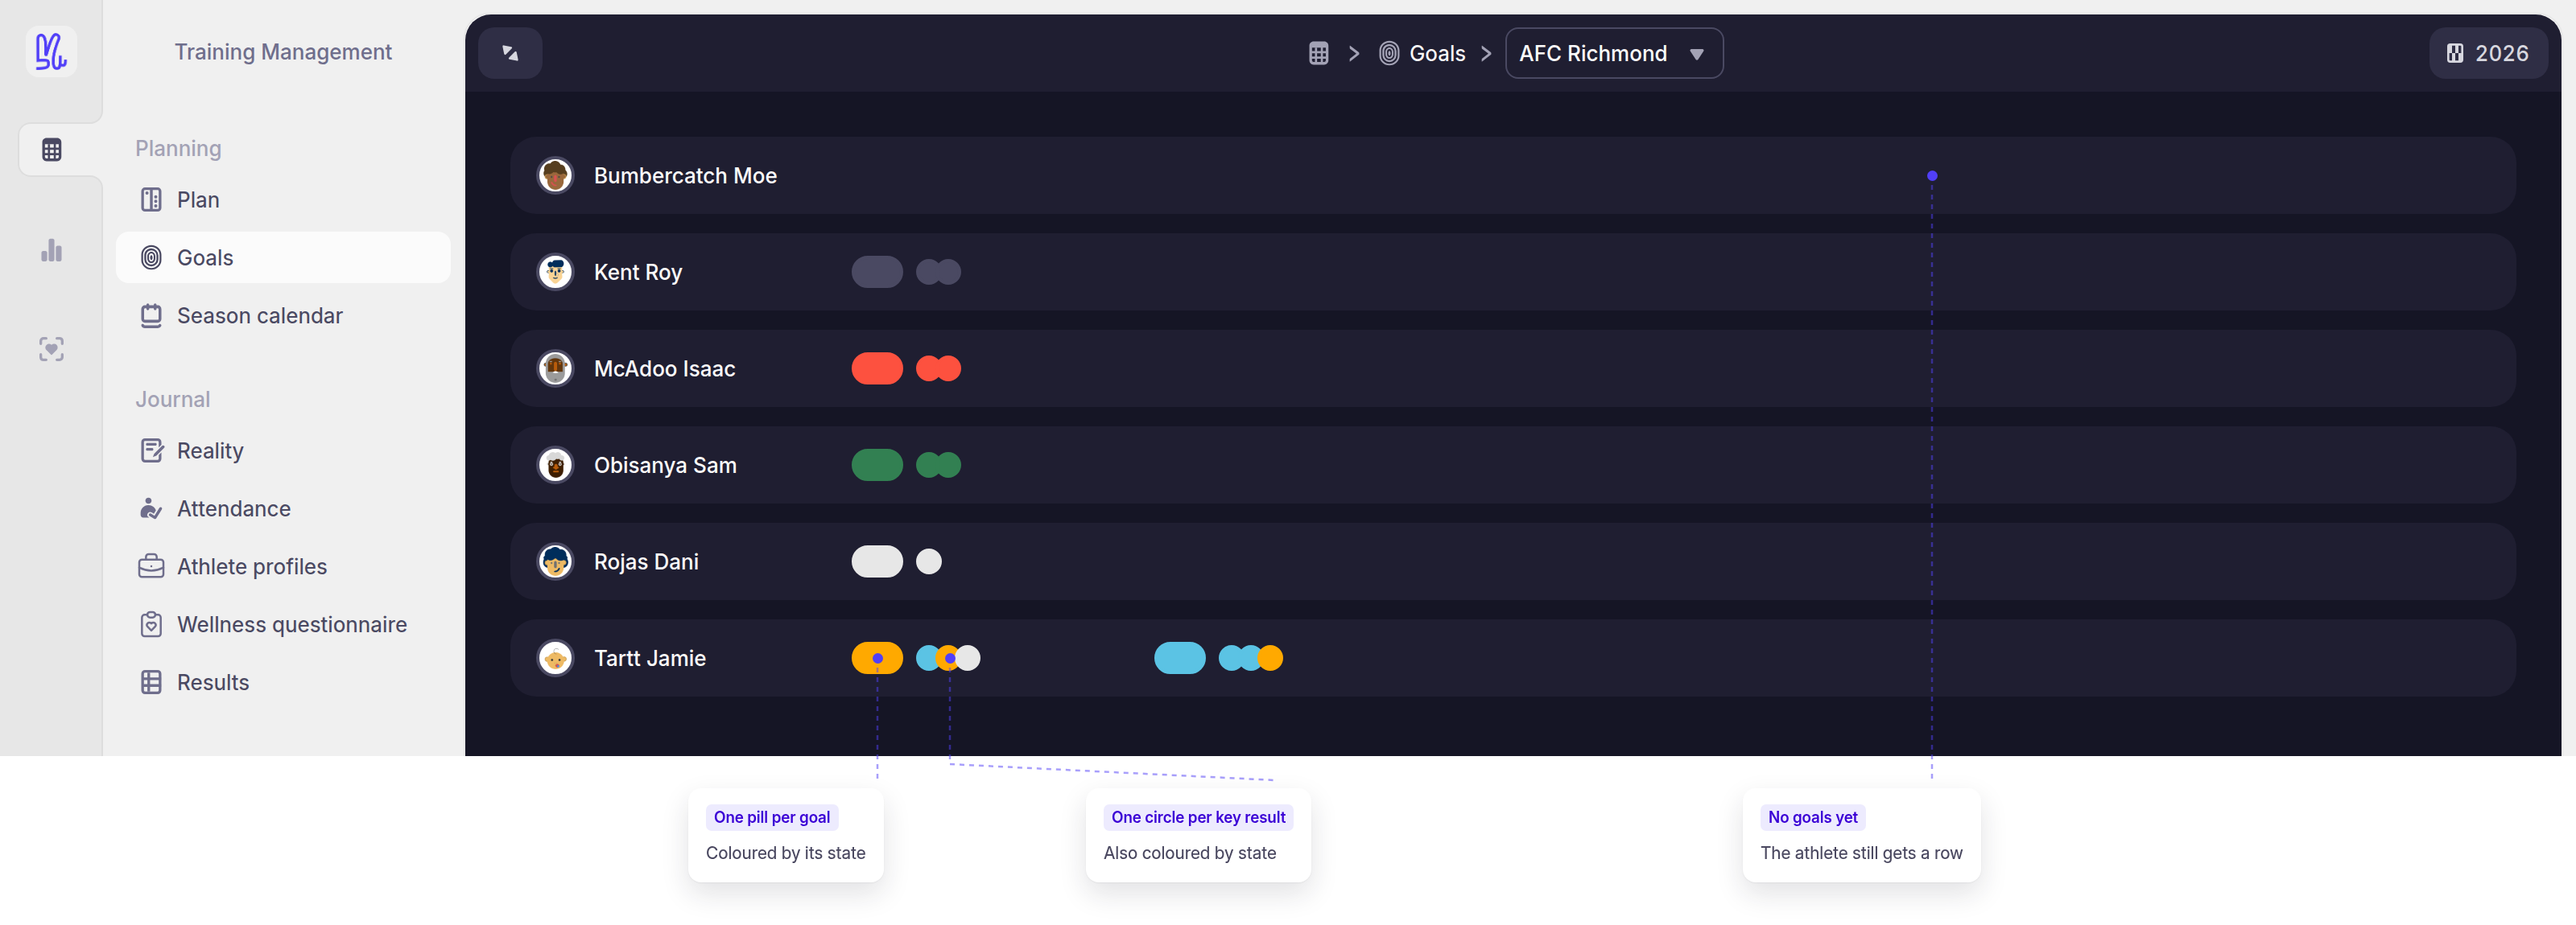
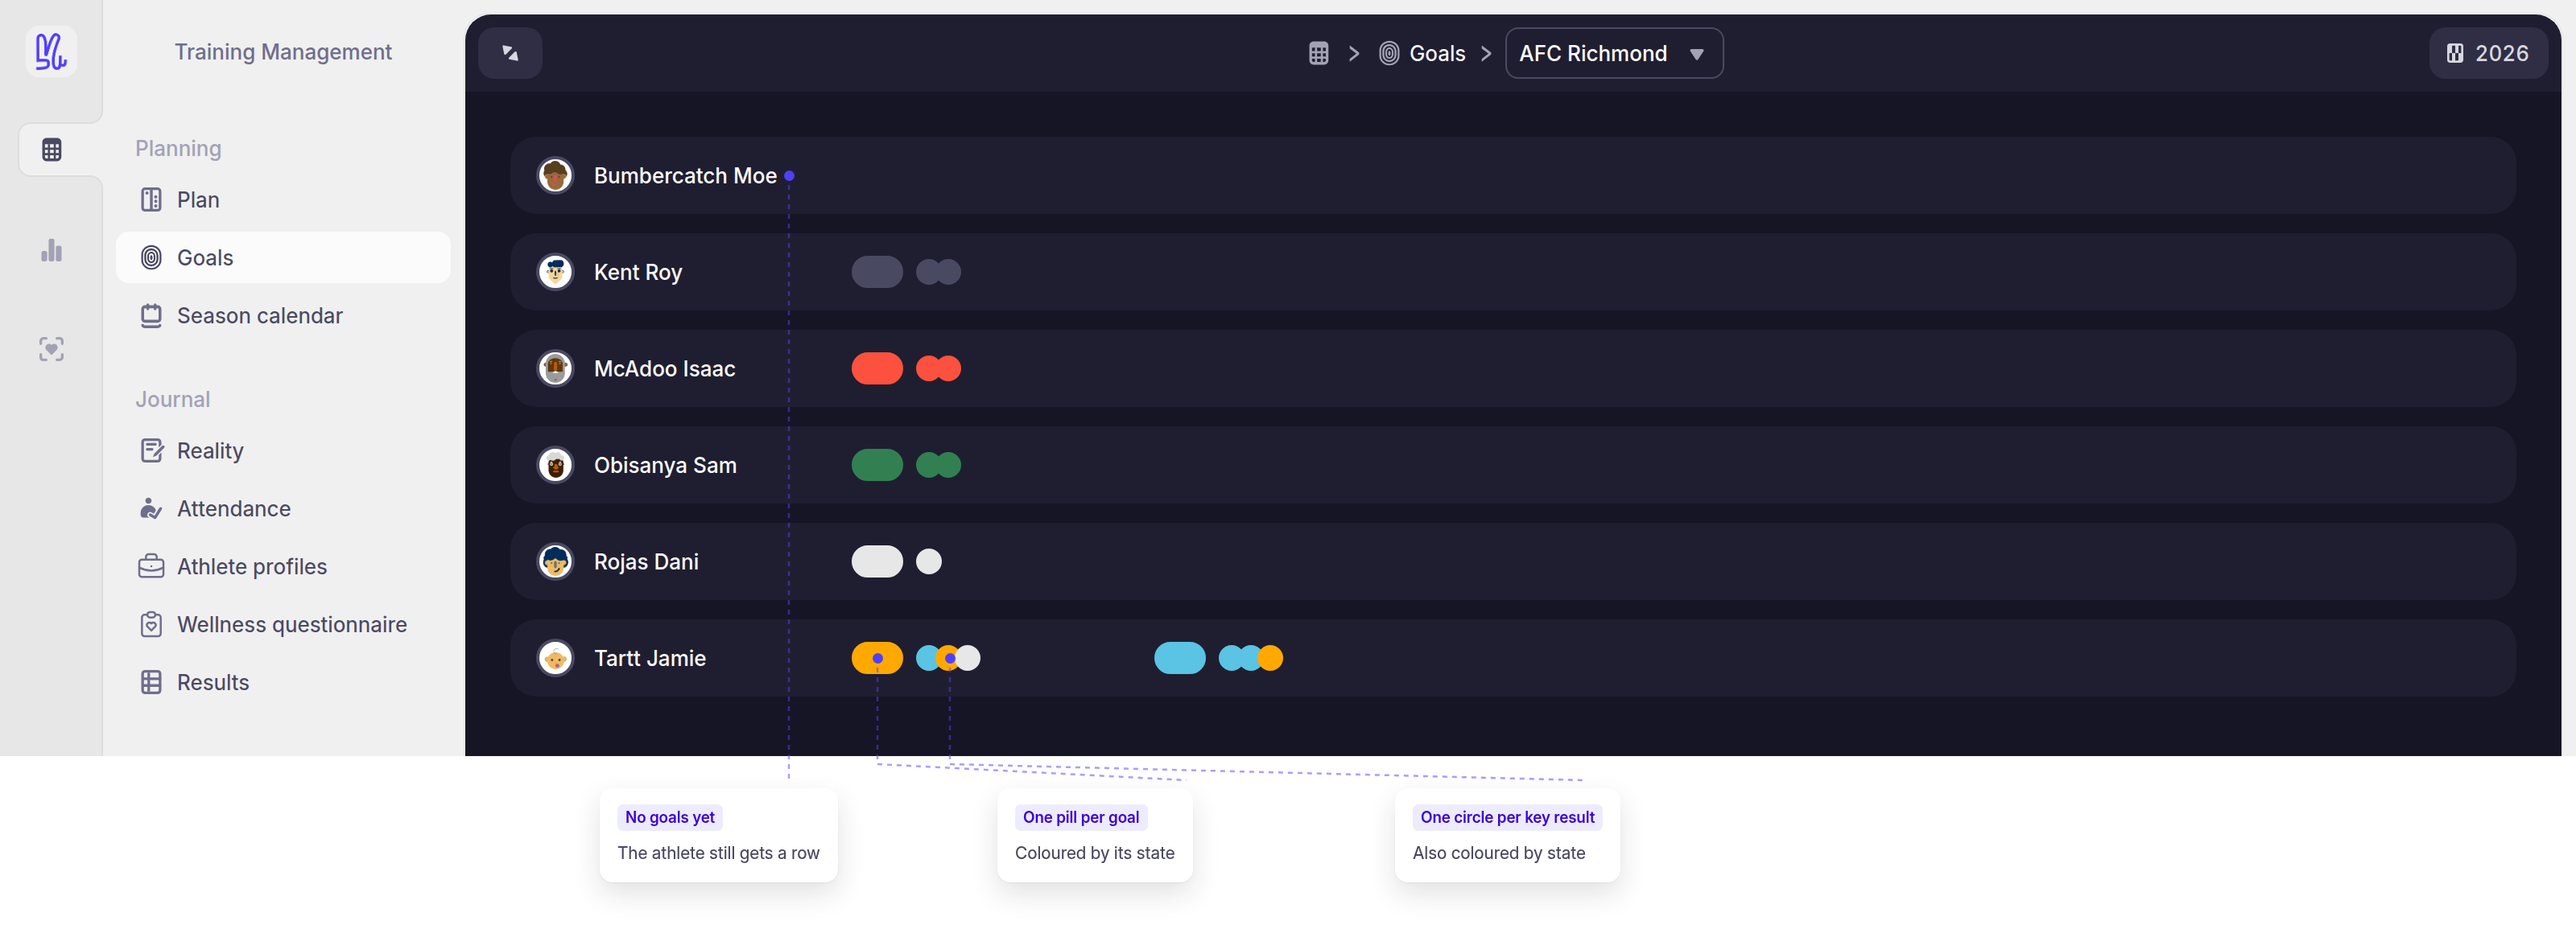
Goals figures: anchor every leader on its element; Action bar → Tool bar
- Several callout anchors sat past the element they named, in whitespace,
  so the dashed leader looked stubby and unconnected. Anchors are now
  measured from the captures themselves — the rightmost content pixel in
  the element's own row — rather than estimated by eye. The worst were
  Export options (350px past the menu), Final evaluation and Activity
  (400-480px past their rows) and the two key-result callouts, which sat
  outside the goal panel entirely.
- Two anchors had taken their x from one row and their y from another;
  both now point at the element they describe.
- The overview's "No goals yet" moved onto Bumbercatch's row, just after
  his name where the pills would start, instead of floating mid-row.
- "Action bar" is now "Tool bar", in the figure and everywhere it was
  named in the docs, module notes, and master reference.

Claude-Session: https://claude.ai/code/session_01BcTgTxjwzSdWmEF7MFmzuM

diff --git a/docs-guide/master-reference.md b/docs-guide/master-reference.md
@@ -120,12 +120,12 @@ Full-season event scaffold. **Event types:** training camp, competition/race, tr
 
 EN UI label: **Goals** (distinct from "Goals (Motivy)", the 4-week plan view in 5.1). In the main menu (under **Planning** in the new left-side UI; **Other** in the older top-menu UI). **Web only** (incl. PWA). Athletes manage their own goals and **see only their own** (no group selector, athlete list, or group overview); coaches choose a group → athlete to manage their athletes' goals, **and can create goals for themselves**. Goals are bucketed by season (**Current season** / **Last season** / **Other**). Strong fit for pre-season and post-season conversations and retrospectives (valued by mental coaches).
 
-- **Goal anatomy:** title, description, **state**, **season**, **priority** (Low / Medium / High, shown as `!`/`!!`/`!!!`), **supervisors** (the coaches following the goal), **category** (two-level: top category → subcategory), **key results**, **final evaluations**, and an **Activity** log. Create / verify / delete sit in a floating **action bar at the bottom** of the goal panel (**New goal**, shortcut **N** · **Verification** · trash), not at the top right.
+- **Goal anatomy:** title, description, **state**, **season**, **priority** (Low / Medium / High, shown as `!`/`!!`/`!!!`), **supervisors** (the coaches following the goal), **category** (two-level: top category → subcategory), **key results**, **final evaluations**, and an **Activity** log. Create / verify / delete sit in a floating **tool bar at the bottom** of the goal panel (**New goal**, shortcut **N** · **Verification** · trash), not at the top right.
 - **States (6):** Not started, On track, Off track, Completed, Canceled, Failed.
 - **Key results (KRs):** name, **start / current / target value** (free text — numeric like `140kg` or a phrase like "trying"; updated **manually**), **target date**, and own state (the **same six states** as the goal). **No sub-steps/milestones** — key results are the only breakdown. The goal-card progress fraction (e.g. `1/1`) counts **achieved ÷ total key results**.
 - **Categories** [CONFIG]: seen in one instance as Performance, Fitness, Personal, Technical, Health, Conditions (each with subcategories, e.g. Fitness → Strength / Endurance). Treat the specific list as per-instance.
 - **Final evaluations** — closing written assessments; athlete and/or coach can each add one. **Gated on a final state**: a final evaluation cannot be added until the goal is set to **Completed**, **Canceled** or **Failed** (confirmed by product owner 09/2026). Distinct from **Activity** comments (plain, timestamped text, addable at any time) and the automatic change-log.
-- **Verification** — a panel (checklist icon in the **action bar at the bottom** of the goal, with a dot badge: red = a required item missing, amber = only recommended ones) that marks each field **required (red)** or **recommended (amber)**, with **green checks** for completed ones (title, description, supervisor, category, key results), and links to **Open guidelines** — the team's own guidelines document (an external, per-team configured URL, e.g. a Notion page). Completeness thresholds (e.g. a minimum number of key results) are instance-specific [CONFIG]. **Not a Yollanda surface** — the panel carries no Yollanda branding (verified 09/2026; earlier notes calling it "Document check (Yollanda persona)" were wrong).
+- **Verification** — a panel (checklist icon in the **tool bar at the bottom** of the goal, with a dot badge: red = a required item missing, amber = only recommended ones) that marks each field **required (red)** or **recommended (amber)**, with **green checks** for completed ones (title, description, supervisor, category, key results), and links to **Open guidelines** — the team's own guidelines document (an external, per-team configured URL, e.g. a Notion page). Completeness thresholds (e.g. a minimum number of key results) are instance-specific [CONFIG]. **Not a Yollanda surface** — the panel carries no Yollanda branding (verified 09/2026; earlier notes calling it "Document check (Yollanda persona)" were wrong).
 - **Entire Group** view — a grid of every athlete's goals for at-a-glance review (hover for a summary, click to open).
 
 Screenshot example: a biathlon "shooting test" goal with KR "reach ≥330 points" (initial 295 → current 309 → target 330).

diff --git a/docs-guide/module-notes/goals.md b/docs-guide/module-notes/goals.md
@@ -153,7 +153,7 @@ value it for retrospectives.
   don't fit collapse into a **`+N`** overflow chip, and a closed goal carrying a final evaluation
   shows a **check badge** at the row's top right.
 - Controls: a **download/export icon** (`export-objectives`) at the top of the list; goals are
-  created from the **New goal** button in the floating **action bar** at the bottom of the goal
+  created from the **New goal** button in the floating **tool bar** at the bottom of the goal
   panel (keyboard **N**) — there is **no `+` at the top of the list** (corrected 09/2026). For a
   coach, the **group** + **athlete** selectors in the sidebar, plus the **Entire Group** entry.
 - States:
@@ -181,7 +181,7 @@ value it for retrospectives.
     checkboxes) · who follow the goal`.
   - **Category** — `chip → DARK two-level dropdown (search) · category → subcategory ·
     per-team codelist` `[CONFIG]`.
-- **Action-bar controls (corrected 09/2026 — at the BOTTOM of the goal panel, in a floating
+- **Tool-bar controls (corrected 09/2026 — at the BOTTOM of the goal panel, in a floating
   dark bar, not top-right):** **New goal** (`add-objective`, shortcut **N**), the **Verification**
   checklist icon (`verification-button`, dot badge: **red** when a required item is missing,
   **amber** when only recommended ones are), and a **trash icon** (`remove-objective`) which
@@ -218,7 +218,7 @@ value it for retrospectives.
 - Note: **no sub-steps/milestones** — KRs are the only breakdown.
 
 ### 6.4 Verification popover — DARK  *(documented before as "Document check (Yollanda)" — renamed/corrected 09/2026)*
-- Opened from the **checklist icon in the action bar** at the bottom of the goal detail (dot
+- Opened from the **checklist icon in the tool bar** at the bottom of the goal detail (dot
   badge: red = a required item missing, amber = only recommended ones). **DARK popover**, heading
   **Verification**, with a back arrow. **No Yollanda illustration, no persona quip, no Yollanda
   branding of any kind** — verified 09/2026 on we.yarmill.com. Do not attribute this panel to
@@ -505,7 +505,7 @@ first-hand from the running app and **supersedes** older statements in this file
   2024 → Other.
 - **Verification, not "Document check".** The popover's heading is **Verification** and its
   link is **Open guidelines**. There is **no Yollanda illustration, quip, or branding**.
-- **Create / delete / verify all live in a floating action bar at the bottom** of the goal
+- **Create / delete / verify all live in a floating tool bar at the bottom** of the goal
   panel, not at the top right: **New goal** (shortcut **N**) · **Verification** · **trash**.
 - **Priority is shown in the list row** as `!` / `!!` / `!!!` before the title.
 - **Final evaluations are gated twice:** the form only renders for the **athlete and the goal's
